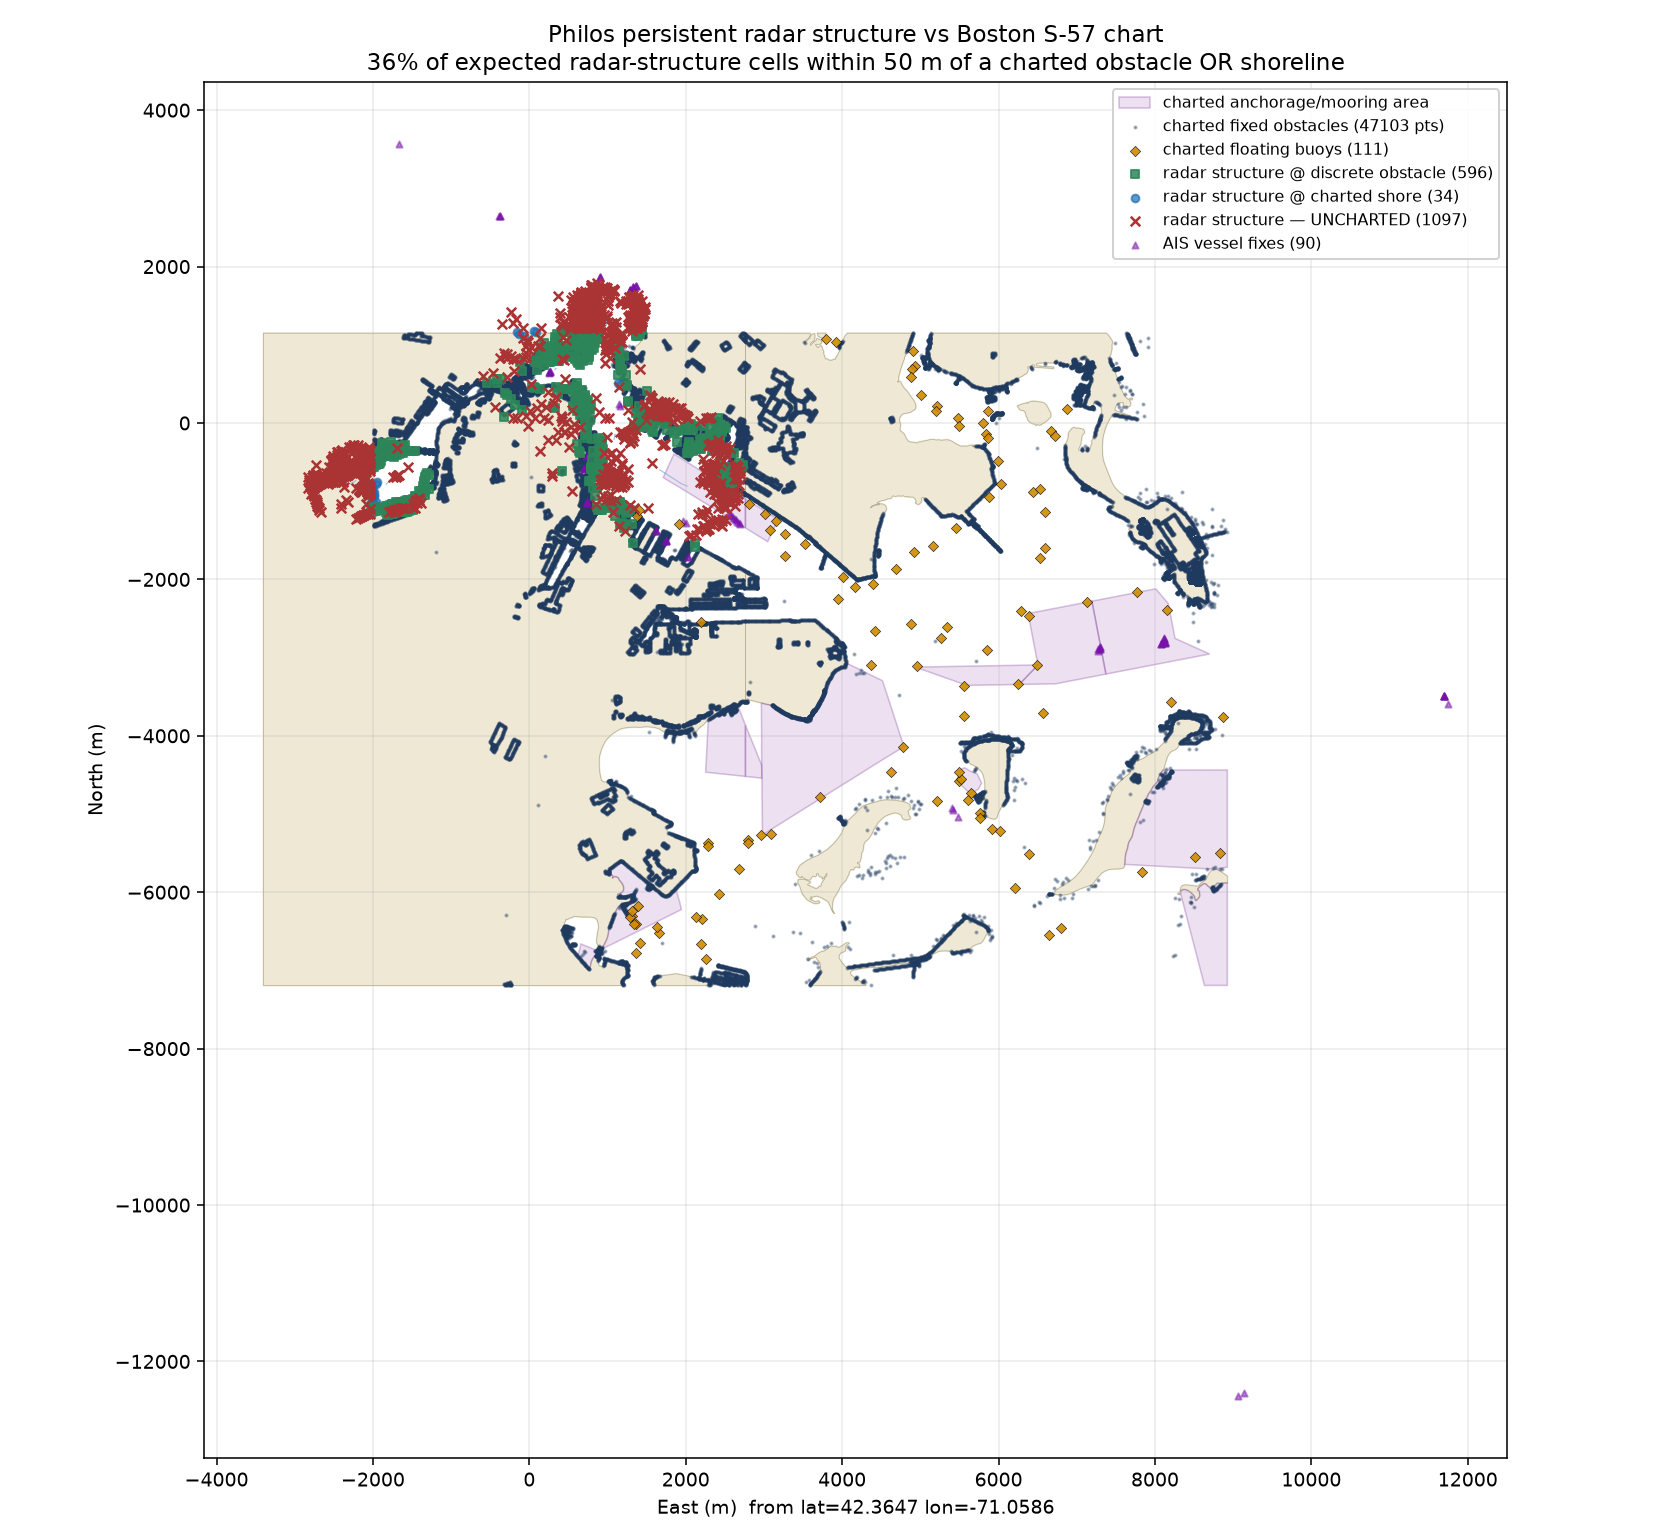
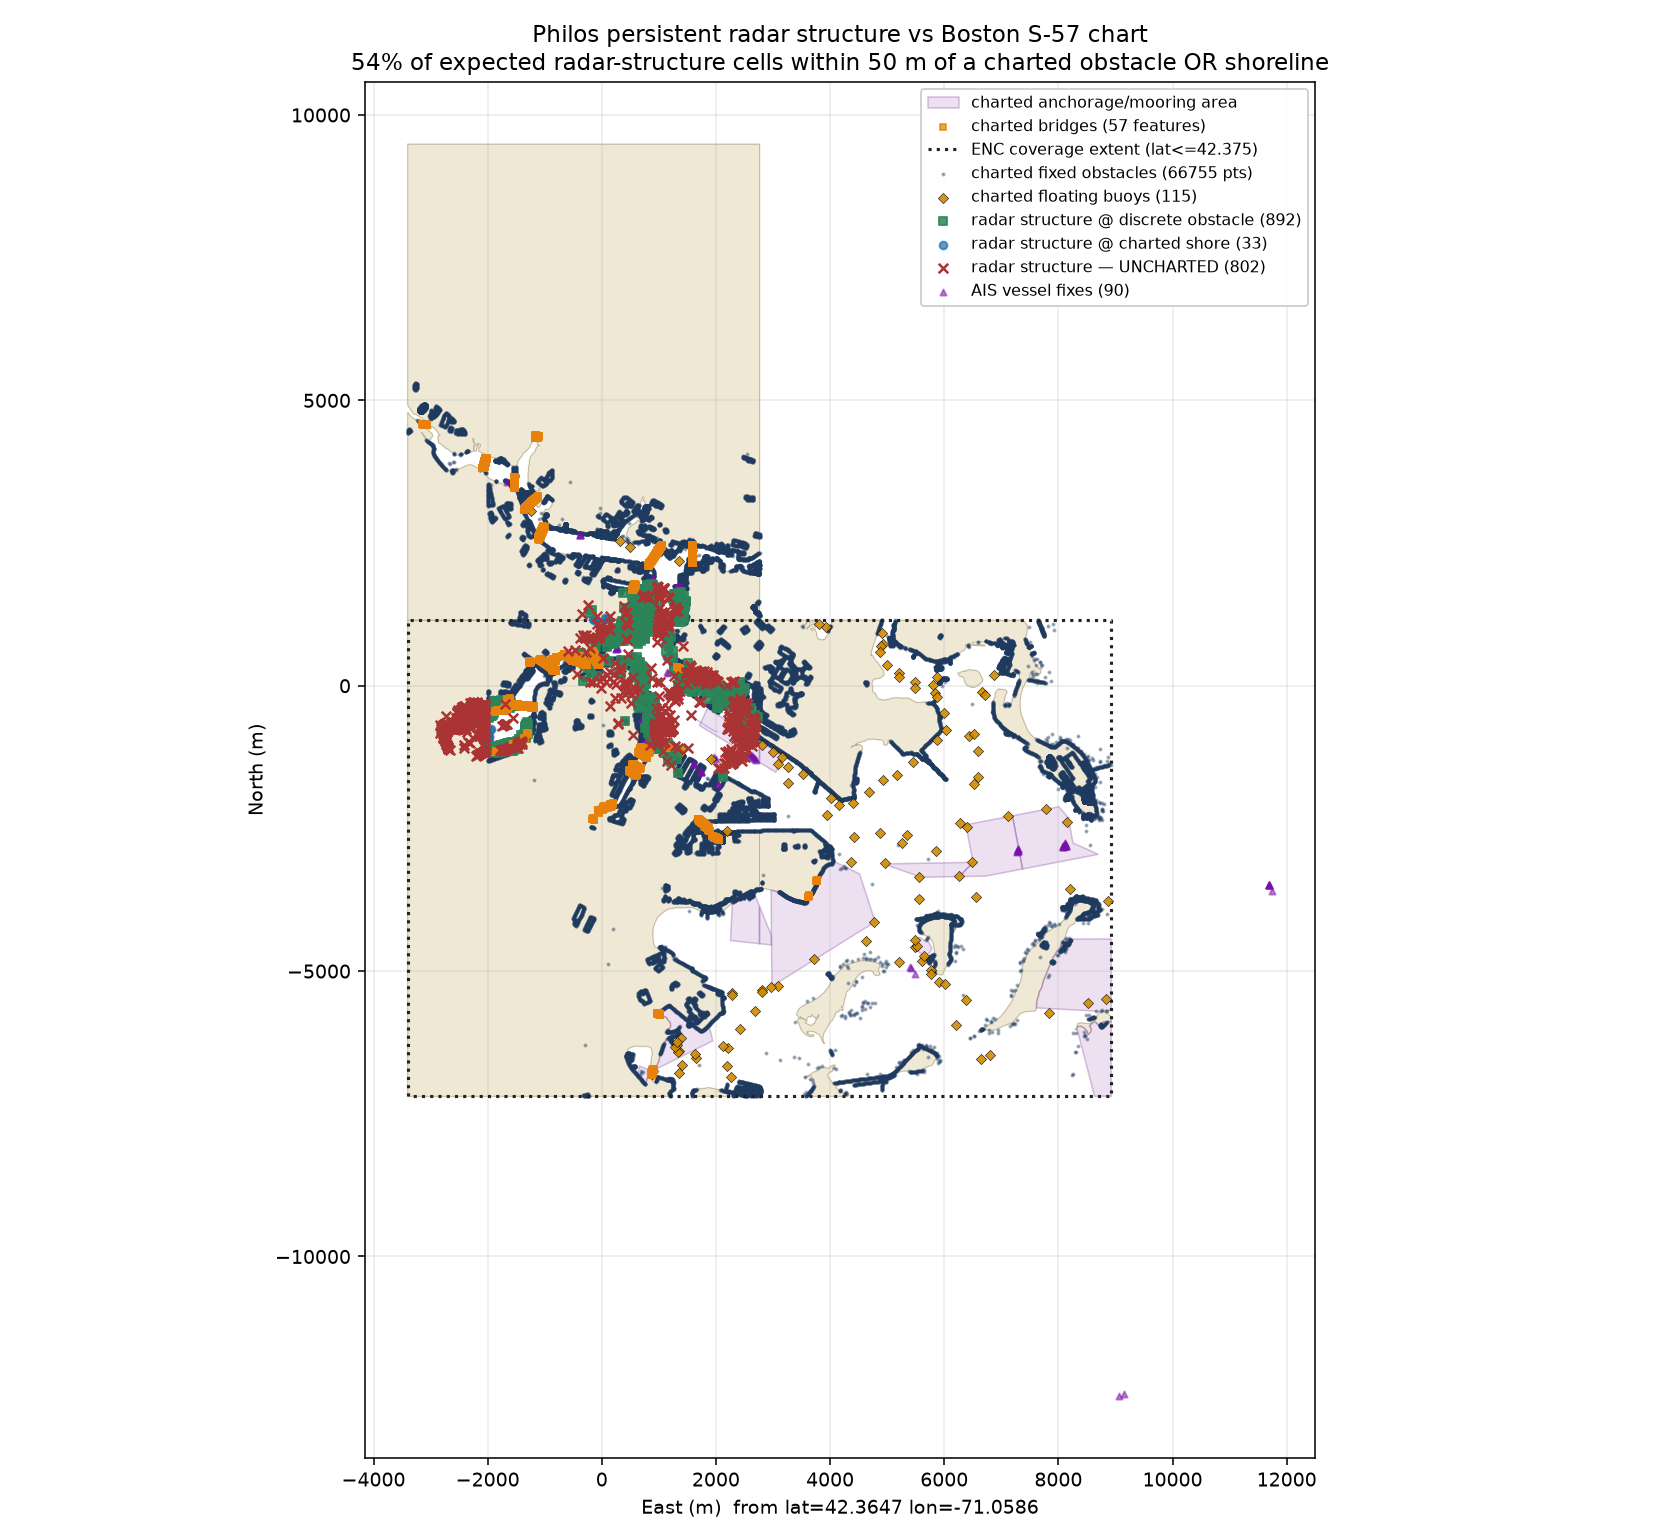
charts(R4): commit philos chart-coverage field-check + eval-log record
The strongest evidence for the philos over-count attribution lived only in the
uncommitted working tree. Commit the field-check (top clusters vs charted bridges
+ ENC coverage extent) and fix a stale hardcoded scratchpad OUT path →
ROOT/charts (env-overridable PHILOS_COVERAGE_OUT); regenerate the PNG.

Field-check (top-100 strongest persistent-structure clusters): 0% within 75 m of
a charted bridge, 32% outside ENC coverage entirely, ~63% unexplained by any
chart layer. Backs the R4 doc reconciliation (spec §14.10 + ADR 0002: mixture,
not "not real boats") and confirms the residual over-count is largely
uncharted → the honest lever is live static-occupancy, not the chart.

Note: the broader chart-data refresh in the working tree (geojson re-export,
US5BOSDC ENC cell + zip, ANALYSIS/export) is separate prior-session WIP, left
uncommitted for review. The top-20 per-cluster VISUAL classification (structure
vs moored craft vs wake) needs satellite/raw-radar imagery — deferred (see eval
log).

Claude-Session: https://claude.ai/code/session_01PZ1GFD9BAzNaEKB5h1wjPC

diff --git a/charts/philos_chart_coverage.py b/charts/philos_chart_coverage.py
@@ -24,7 +24,7 @@ import csv, glob, json, math, os
 import numpy as np
 
 ROOT = "/home/andreas/workspace/navtracker"
-OUT = "/tmp/claude-1000/-home-andreas-workspace-navtracker/520a673b-184b-42a6-a40b-544ebf598eda/scratchpad"
+OUT = os.environ.get("PHILOS_COVERAGE_OUT", f"{ROOT}/charts")
 SCEN_GLOB = f"{ROOT}/tests/fixtures/philos/out/*/"
 CHART = f"{ROOT}/charts/geojson/radar_clutter.geojson"
 LAND = f"{ROOT}/charts/geojson/land.geojson"
@@ -283,6 +283,53 @@ strong=order[:100]; unch = d_union[strong]>50.0
 if unch.sum():
     print(f"  of top-100 that are >50 m from any structure ({int(unch.sum())}): {100*in_moor[strong][unch].sum()/unch.sum():.0f}% fall inside a charted anchorage/mooring area")
 
+# ── field-check: top clusters vs BRIDGES + ENC coverage extent ──────────────
+def densify_class(path, objclass):
+    d=json.load(open(path)); pts=[]
+    for ft in d["features"]:
+        if ft["properties"].get("obj_class")!=objclass: continue
+        g=ft.get("geometry")
+        if not g: continue
+        t=g["type"]; co=g["coordinates"]; rings=[]
+        if t=="Point": pts.append((co[0],co[1])); continue
+        elif t=="LineString": rings=[co]
+        elif t=="MultiLineString": rings=co
+        elif t=="Polygon": rings=co
+        elif t=="MultiPolygon":
+            for poly in co: rings+=poly
+        for ring in rings:
+            for a,b in zip(ring[:-1],ring[1:]):
+                ae,an=to_enu(a[1],a[0]); be,bn=to_enu(b[1],b[0])
+                L=math.hypot(be-ae,bn-an); steps=max(1,int(L/DENSIFY_M))
+                for k in range(steps+1):
+                    f=k/steps; pts.append((a[0]+f*(b[0]-a[0]), a[1]+f*(b[1]-a[1])))
+    return np.array([to_enu(p[1],p[0]) for p in pts]) if pts else np.empty((0,2))
+bridge_pts=densify_class(f"{ROOT}/charts/geojson/fixed_surface.geojson","BRIDGE")
+cov_u=ogr.Geometry(ogr.wkbMultiPolygon)
+for path in ENC.values():
+    ds=ogr.Open(path); lyr=ds.GetLayerByName("M_COVR")
+    if not lyr: continue
+    for ft in lyr:
+        g=ft.GetGeometryRef()
+        if g is None: continue
+        if g.GetGeometryName()=="POLYGON": cov_u.AddGeometry(g.Clone())
+        elif g.GetGeometryName()=="MULTIPOLYGON":
+            for i in range(g.GetGeometryCount()): cov_u.AddGeometry(g.GetGeometryRef(i).Clone())
+def in_cov(e,n):
+    lon=lon_ref+e/mE; lat=lat_ref+n/mN
+    pt=ogr.Geometry(ogr.wkbPoint); pt.AddPoint(lon,lat); return cov_u.Contains(pt)
+print(f"\n== field-check: top-20 strong clusters (bridges? in coverage?)  (charted BRIDGE pts={len(bridge_pts)}) ==")
+print("  rank      lat        lon      count  d_chart  d_bridge  in_ENC_cov")
+for r,i in enumerate(order[:20]):
+    e,n,cnt=expected[i]; lat=lat_ref+n/mN; lon=lon_ref+e/mE
+    print(f"  {r+1:4d}  {lat:9.5f} {lon:10.5f} {int(cnt):6d} {d_union[i]:7.0f} {nearest(bridge_pts,e,n):8.0f}   {in_cov(e,n)}")
+top=order[:100]
+dbr=np.array([nearest(bridge_pts,expected[i,0],expected[i,1]) for i in top])
+outc=np.array([not in_cov(expected[i,0],expected[i,1]) for i in top])
+print(f"  top-100 within 75 m of a charted BRIDGE: {100*(dbr<=75).sum()/100:.0f}%   within 150 m: {100*(dbr<=150).sum()/100:.0f}%")
+print(f"  top-100 OUTSIDE ENC chart coverage (M_COVR): {100*outc.sum()/100:.0f}%")
+print(f"  top-100 EITHER near a bridge(<=150m) OR outside coverage: {100*((dbr<=150)|outc).sum()/100:.0f}%")
+
 # ── map ─────────────────────────────────────────────────────────────────────
 os.environ.setdefault("MPLCONFIGDIR", OUT)
 import matplotlib; matplotlib.use("Agg")
@@ -309,6 +356,14 @@ for j,ring in enumerate(moor_rings):
     if len(ring)>2:
         ax.fill(ring[:,0],ring[:,1],facecolor="#c39bd3",edgecolor="#7d3c98",alpha=0.30,lw=0.8,
                 zorder=1.5,label=("charted anchorage/mooring area" if j==0 else None))
+
+# charted bridges (orange) + ENC coverage boundary (dotted)
+if len(bridge_pts):
+    ax.scatter(bridge_pts[:,0],bridge_pts[:,1],s=7,c="#e8820c",marker="s",alpha=0.75,
+               label="charted bridges (57 features)",zorder=4.5)
+_cov=[(42.30,-71.10),(42.375,-71.10),(42.375,-70.95),(42.30,-70.95),(42.30,-71.10)]
+_cr=np.array([to_enu(la,lo) for la,lo in _cov])
+ax.plot(_cr[:,0],_cr[:,1],color="#222",lw=1.6,ls=":",label="ENC coverage extent (lat<=42.375)",zorder=2.2)
 
 # charted obstacles
 if len(chart_fixed): ax.scatter(chart_fixed[:,0],chart_fixed[:,1],s=1.2,c="#1f3a5f",alpha=0.35,label=f"charted fixed obstacles ({len(chart_fixed)} pts)",zorder=2)

diff --git a/docs/algorithms/evaluation-log.md b/docs/algorithms/evaluation-log.md
@@ -8,6 +8,36 @@ this file holds *observations* only.
 Tracker configuration unless noted: `ConstantVelocity2D(q=0.1)`,
 `GnnAssociator`, `TrackManager`, baseline thresholds from the scenario tests.
 
+## 2026-07-02 — R4 (static review): philos chart-coverage field-check committed
+
+Static-branch review ticket R4. The strongest quantitative evidence for the
+philos over-count attribution lived only in the uncommitted working tree
+(`charts/philos_chart_coverage.py` + PNG). Committed it (fixed a stale hardcoded
+scratchpad `OUT` → `ROOT/charts`, env-overridable) and re-ran against the current
+Boston ENC (US5BOSCC/CD) + chart GeoJSON. Field-check numbers (top-100 strongest
+persistent-structure clusters — the actual over-count drivers):
+
+- **0 %** within 75 m of a charted **bridge** (6 % within 150 m).
+- **32 %** fall **outside ENC chart coverage** (M_COVR) entirely.
+- **37 %** are near a bridge (≤150 m) OR outside coverage; ~63 % remain
+  unexplained by any chart layer.
+- Two dominant groups: an in-coverage cluster at **~42.3585 N / −71.0875 E**
+  (~350–470 m from any charted feature, ~500–600 m from bridges) and an
+  **outside-ENC** group at **~42.376–42.379 N / −71.046 E**.
+
+This is the quantitative backing for the R4 doc reconciliation (design spec
+§14.10 + ADR 0002 now say "persistent uncharted structure dominates; a minority
+are moored craft — mixture"). It also confirms the largest slice of the residual
+over-count is **not chartable** — the honest lever is live static-occupancy
+(Stage 1b/2), not the chart (cf. 2026-07-01 "charts are a ~⅓ partial lever").
+
+**Open sub-task (needs imagery, not doable in this environment):** the top-20
+clusters' geometric table (lat/lon, return count, distance-to-chart,
+distance-to-bridge, in/out ENC coverage) is emitted by the script, but the
+per-cluster *visual* classification (fixed structure vs moored craft vs
+own-ship-wake vs sea clutter) requires satellite / raw-radar overlay inspection.
+Deferred — it decides how much of the residual Stage 1b can actually crush.
+
 ## 2026-07-02 — R6 (static review): boat-near-pier gate; R1 not load-bearing on default configs (measured)
 
 Static-branch review ticket R6. Added `harbor_boat_near_pier`: the R5 charted-pier